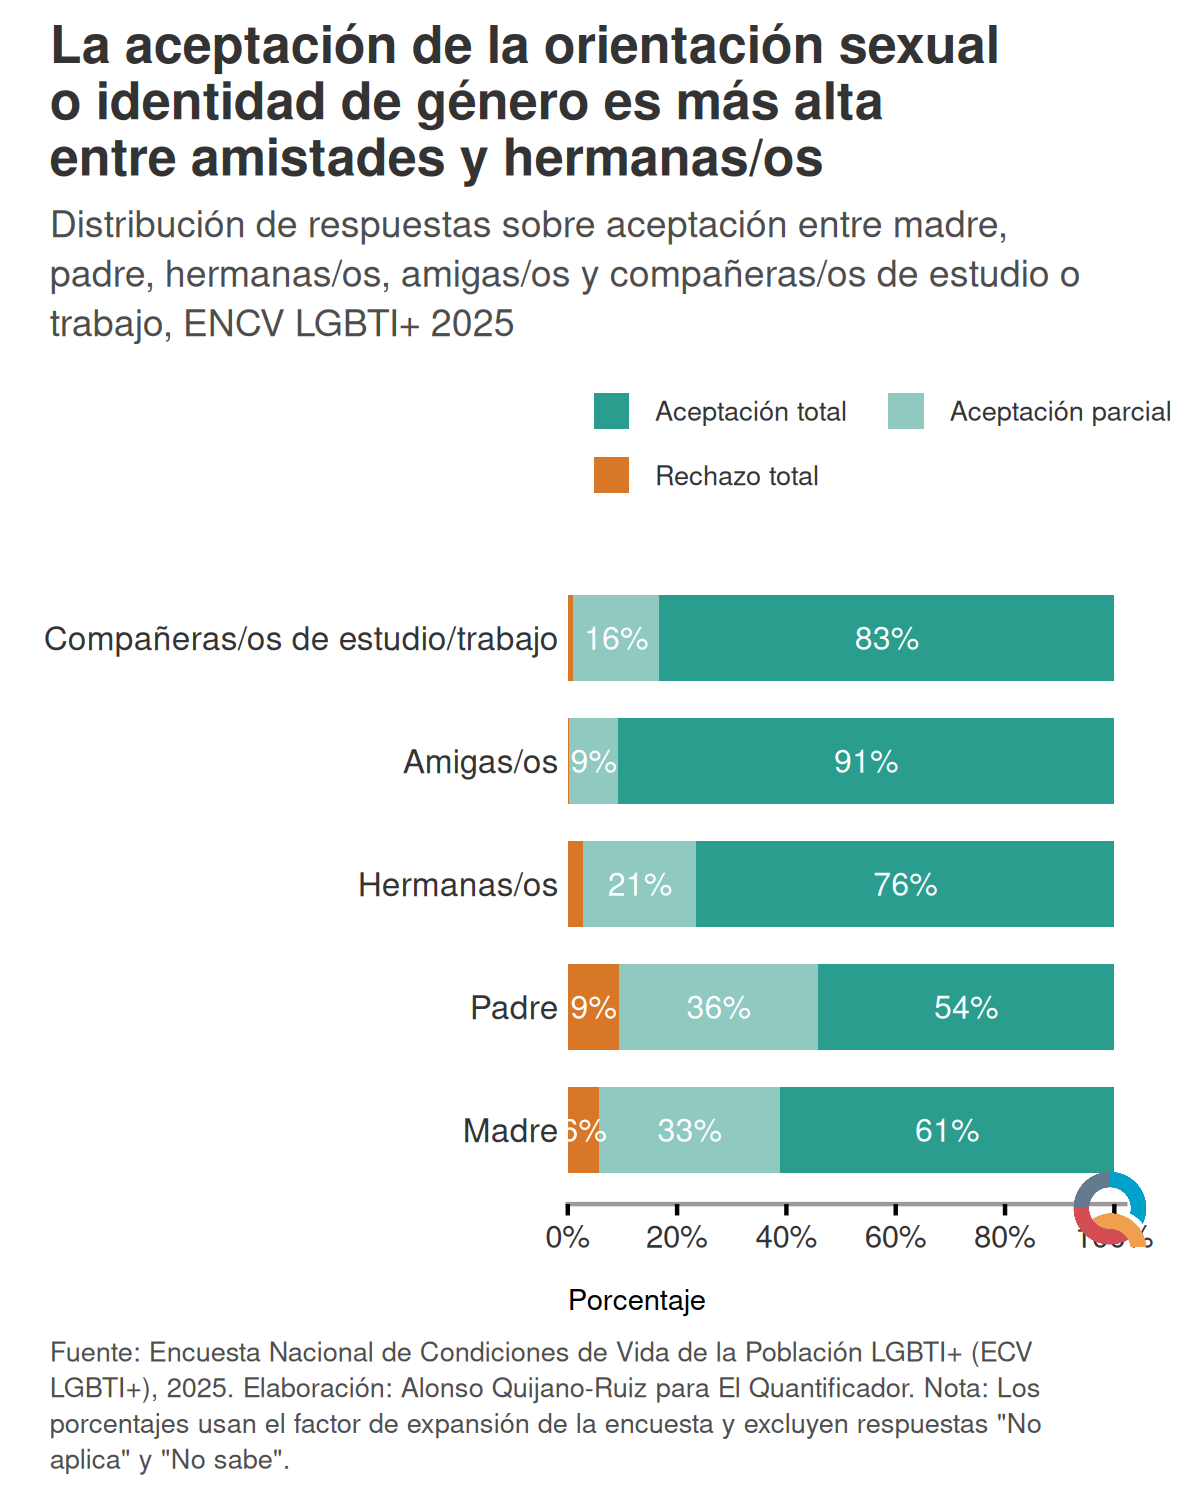
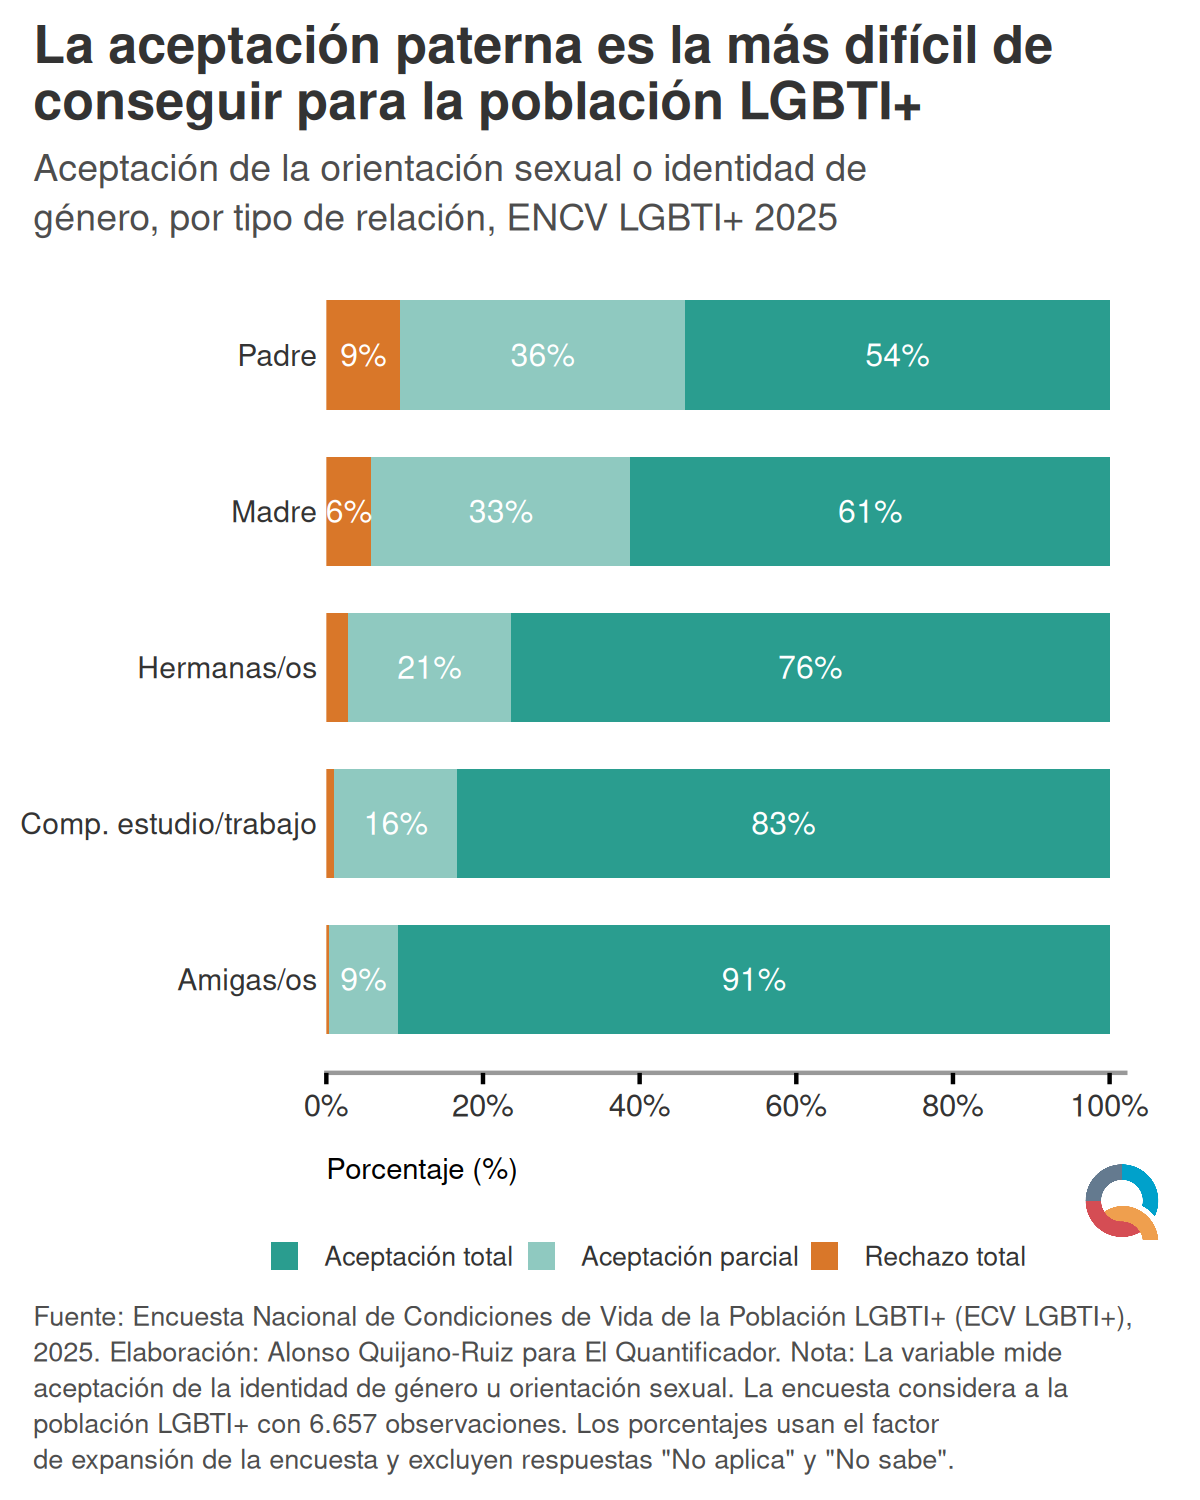
lgbti chart and links

diff --git a/data/sources/lgbti_aceptacion_orientacion_identidad.md b/data/sources/lgbti_aceptacion_orientacion_identidad.md
@@ -10,7 +10,17 @@
 ## Construcción
 
 - Encuesta base: Encuesta Nacional de Condiciones de Vida de la Población LGBTI+ 2025.
+- Población de referencia: personas LGBTI+ encuestadas en la ENCV LGBTI+ 2025.
+- Base usada en este repo: `6.657` observaciones en el archivo crudo versionado.
 - Variables usadas: `s08_p01_1_1a`, `s08_p01_2_1a`, `s08_p01_5_1a`, `s08_p01_7_1a` y `s08_p01_8_1a`.
 - Grupos mostrados: madre, padre, hermanas/os, amigas/os y compañeras/os de estudio o trabajo.
+- Concepto medido: aceptación de la identidad de género u orientación sexual de la persona encuestada, según tipo de relación.
 - Estimación: proporciones ponderadas con `fexp` usando `srvyr`.
 - Exclusiones: respuestas `No aplica` y `No sabe`.
+
+## Verificación del título
+
+- La sintaxis fuente de INEC para estos tabulados identifica `s08_p01_1_1a` como `Madre` y `s08_p01_2_1a` como `Padre`, dentro del bloque `Aceptación de la orientación sexual o identidad de género`.
+- En la tabulación reproducida para este repo, `Padre` registra la menor aceptación total (`54,3%`) y `Madre` la segunda menor (`61,2%`), por debajo de hermanas/os, amigas/os y compañeras/os de estudio o trabajo.
+- El título `Los padres y madres son quienes menos aceptan la orientación sexual de sus hijos LGBTI+` resume ese hallazgo para la población encuestada.
+- Precisión metodológica: la variable medida en la encuesta es `identidad de género u orientación sexual`; la frase `de sus hijos LGBTI+` es una inferencia editorial basada en que la encuesta se aplica a personas LGBTI+ y las categorías `Madre` y `Padre` se refieren a la relación de esas personas encuestadas.
